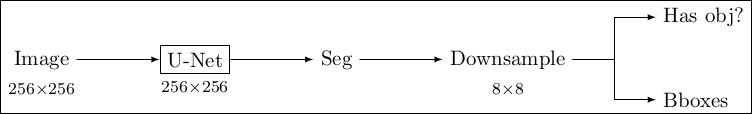
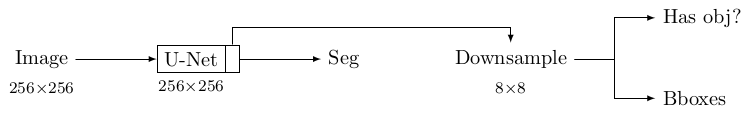
Arrow coming from last layer before segmentation.

diff --git a/doc/obj-after-seg.tex b/doc/obj-after-seg.tex
@@ -1,4 +1,4 @@
-\documentclass{standalone}
+\documentclass[border=1px]{standalone}
 \usepackage{tikz}
 \usetikzlibrary{positioning}
 \begin{document}
@@ -6,7 +6,8 @@
 \node (image) {Image};
 \node [below=0pt of image, font=\footnotesize] {$256{\times}256$};
 \node [draw, right=of image] (model) {U-Net};
-\node [right=of model] (seg) {Seg};
+\node [draw, right=0pt of model] (last) {\vphantom{U}};
+\node [right=of last] (seg) {Seg};
 \node [below=0pt of model, font=\footnotesize] {$256{\times}256$};
 \node [right=of seg] (downsample) {Downsample};
 \node [below=0pt of downsample, font=\footnotesize] {$8{\times}8$};
@@ -14,8 +15,8 @@
 \node [below right=of downsample] (bboxes) {Bboxes};
 
 \draw[-latex] (image) -- (model);
-\draw[-latex] (model) -- (seg);
-\draw[-latex] (seg) -- (downsample);
+\draw[-latex] (last) -- (seg);
+\draw[-latex] (last.north) -- ++(0,2ex) -| (downsample.north);
 \draw[-latex] (downsample.east) -- ++(2em,0) |- (hasobj);
 \draw[-latex] (downsample.east) -- ++(2em,0) |- (bboxes);
 \end{tikzpicture}

diff --git a/doc/seg-head.tex b/doc/seg-head.tex
@@ -1,4 +1,4 @@
-\documentclass{standalone}
+\documentclass[border=1px]{standalone}
 \usepackage{tikz}
 \usetikzlibrary{positioning}
 \begin{document}
